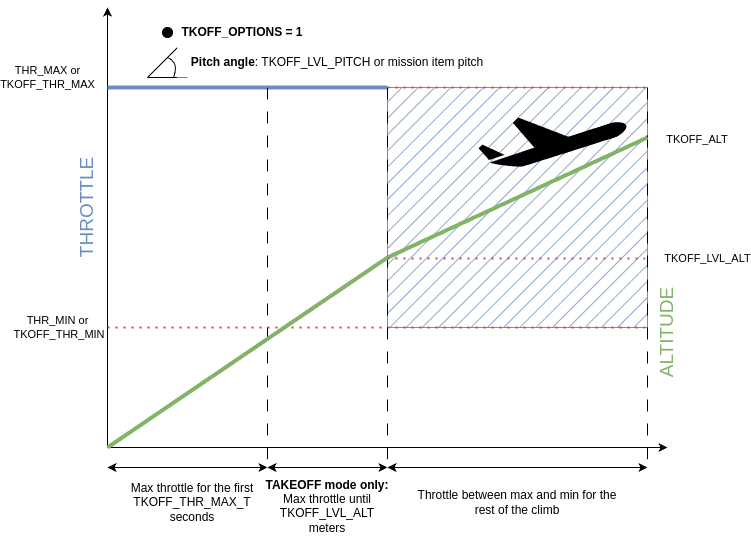
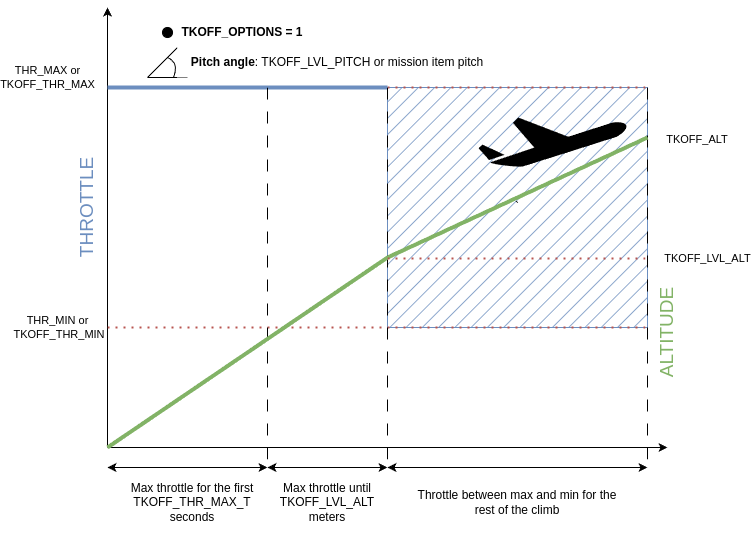
Updated according to #27758

diff --git a/plane/source/docs/takeoff-mode.rst b/plane/source/docs/takeoff-mode.rst
@@ -16,9 +16,11 @@ reached the target altitude specified in the mission. The mission will then exec
 TAKEOFF Flight Mode
 ===================
 
-In ArduPlane 4.0 and later, Automatic Takeoff is also a mode itself. When entered, the plane will use maximum throttle as set by the :ref:`TKOFF_THR_MAX<TKOFF_THR_MAX>` parameter, climbing with :ref:`TKOFF_LVL_PITCH<TKOFF_LVL_PITCH>` maximum and takeoff roll limits (:ref:`LEVEL_ROLL_LIMIT<LEVEL_ROLL_LIMIT>` ), climbing to the :ref:`TKOFF_ALT<TKOFF_ALT>` altitude and proceeding at the initial launch heading until :ref:`TKOFF_DIST<TKOFF_DIST>` from the point where the mode is entered. It will then loiter, as in LOITER mode, at :ref:`TKOFF_ALT<TKOFF_ALT>` altitude until the mode is changed.
+In ArduPlane 4.0 and later, Automatic Takeoff is also a mode itself. When entered, the plane will use maximum throttle as set by the :ref:`TKOFF_THR_MAX<TKOFF_THR_MAX>` parameter, climbing with :ref:`TKOFF_LVL_PITCH<TKOFF_LVL_PITCH>` maximum and takeoff roll limits (:ref:`LEVEL_ROLL_LIMIT<LEVEL_ROLL_LIMIT>` ) up to the :ref:`TKOFF_ALT<TKOFF_ALT>` altitude.
+Then, it will loiter at :ref:`TKOFF_ALT<TKOFF_ALT>` altitude until the mode is changed.
+If the plane travels for :ref:`TKOFF_DIST<TKOFF_DIST>` from the point where the mode is entered, before reaching :ref:`TKOFF_ALT<TKOFF_ALT>` altitude, then it will loiter on that spot, still trying to climb to :ref:`TKOFF_ALT<TKOFF_ALT>`.
 
-Once :ref:`TKOFF_LVL_ALT<TKOFF_LVL_ALT>` is reached, or the loiter point distance is reached, maximum throttle and takeoff roll limits (:ref:`LEVEL_ROLL_LIMIT<LEVEL_ROLL_LIMIT>` ) are stopped and normal navigation begins to the loiter point and altitude. Normally, :ref:`TKOFF_LVL_ALT<TKOFF_LVL_ALT>` is 5-10 meters and is intended to limit navigation (roll) in order to prevent wing tip ground strikes.
+Once :ref:`TKOFF_LVL_ALT<TKOFF_LVL_ALT>` is reached, or the loiter point distance is reached, maximum throttle and takeoff roll limits (:ref:`LEVEL_ROLL_LIMIT<LEVEL_ROLL_LIMIT>` ) are stopped and normal navigation begins to the loiter point and altitude. Normally, :ref:`TKOFF_LVL_ALT<TKOFF_LVL_ALT>` is 10 meters and is intended to limit navigation (roll) in order to prevent wing tip ground strikes.
 
 If the mode is entered while already flying, it will immediately begin loitering as in LOITER mode if at or above :ref:`TKOFF_ALT<TKOFF_ALT>` altitude above ground, otherwise it will climb to that altitude and then begin loitering .
 
@@ -46,13 +48,13 @@ TAKEOFF Throttle
 ================
 
 By default, Plane will set the throttle to :ref:`TKOFF_THR_MAX<TKOFF_THR_MAX>` (or if that is 0, to :ref:`THR_MAX<THR_MAX>`) up until it reaches :ref:`TKOFF_ALT<TKOFF_ALT>`.
-This behaviour is reflected in the :ref:`TKOFF_OPTIONS<TKOFF_OPTIONS>` bit 0 setting, which by default is 0.
+This behaviour is reflected in the :ref:`TKOFF_OPTIONS<TKOFF_OPTIONS>` bit 0 setting, which by default is 0 (unset).
 
 In case more fine-grained throttle control is required, an airspeed sensor must be installed and enabled via the :ref:`ARPSD_USE<ARSPD_USE>` parameter and :ref:`TKOFF_OPTIONS<TKOFF_OPTIONS>` bit 0 must be set to 1.
 
 In this configuration, right after takeoff the throttle is set to :ref:`TKOFF_THR_MAX<TKOFF_THR_MAX>` for :ref:`TKOFF_THR_MAX_T<TKOFF_THR_MAX_T>` or until :ref:`TKOFF_LVL_ALT<TKOFF_LVL_ALT>` (whichever lasts longer).
 
-Finally, the throttle will be managed to achieve a controlled climb, ranging between :ref:`TKOFF_THR_MIN<TKOFF_THR_MIN>` and :ref:`TKOFF_THR_MAX<TKOFF_THR_MAX>`.
+Finally, the throttle will be managed by the TECS controller to achieve a controlled climb, ranging between :ref:`TKOFF_THR_MIN<TKOFF_THR_MIN>` and :ref:`TKOFF_THR_MAX<TKOFF_THR_MAX>`.
 
 The difference between these two throttle control options can be seen in the following diagrams:
 

diff --git a/plane/source/docs/automatic-takeoff.rst b/plane/source/docs/automatic-takeoff.rst
@@ -42,8 +42,6 @@ You should try to launch into the wind whenever possible.
 
 By default, the throttle will be set at :ref:`TKOFF_THR_MAX<TKOFF_THR_MAX>`
 during all of the climb. For more fine-grained control, please read :ref:`takeoff-throttle`.
-Note that the setting of :ref:`TKOFF_LVL_ALT<TKOFF_LVL_ALT>` doesn't affect
-the throttle in AUTO flight mode.
 
 Hand Launching
 ==============
